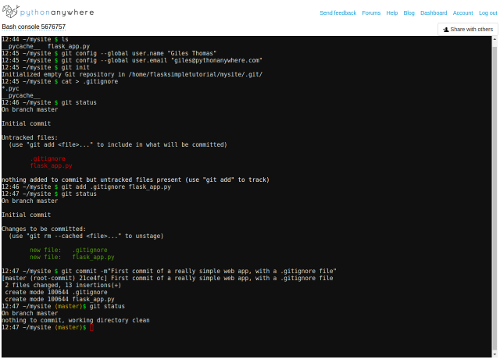
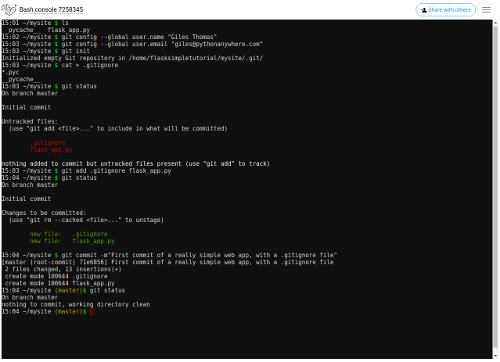
Updated first flask tutorial to use new interface

Changed region(s): [[0.0, 0.0, 1.0, 1.0]]

diff --git a/tutorial-1.md b/tutorial-1.md
@@ -16,13 +16,23 @@ We assume that you've got a little bit of basic Python and HTML knowledge -- for
 
 Firstly, [create a PythonAnywhere account](https://www.pythonanywhere.com/pricing/) if you haven't already.  A free "Beginner" account is enough for this tutorial.
 
-Once you've signed up, you'll be taken to the "Consoles" tab:
+Once you've signed up, you'll be taken to the dashboard, with a tour window.  It's worth going through
+the tour so that you can learn how the site works -- it'll only take a minute or so.
 
 <img width="500" src="/static/images/flask-tutorial-signed-in.png">
 
-You can dismiss the green welcome section at the top (use the "X" in its top right) -- everything there is accessible later from the "Help" link if you want to see it.  I do recommend you check your email and confirm your email address, though -- otherwise if you forget your password later, you won't be able to reset it.
+At the end of the tour you'll be presented with some options to "learn more".  You can just iht "End tour" here,
+because this tutorial will tell you all you need to know.
 
-Now, click on the "Web" tab, and you'll be taken to a page where you can create a website:
+<img width="500" src="/static/images/flask-tutorial-tour-learn-more.png">
+
+Now you're presented with the PythonAnywhere dashboard.  I recommend you check your email and confirm your email address --
+otherwise if you forget your password later, you won't be able to reset it.
+
+<img width="500" src="/static/images/flask-tutorial-initial-dashboard.png">
+
+
+Now, click on the "Web" link near the top right, and you'll be taken to a page where you can create a website:
 
 <img width="500" src="/static/images/flask-tutorial-web-tab-empty.png">
 
@@ -211,7 +221,7 @@ So let's add some code to handle the "/wibble" version.  Just put this at the bo
 
 Click the "Save" button again, then the reload button, and check out your site on the tab you kept open earlier.  Now, both `http://`*yourusername*`.pythonanywhere.com/` and `http://`*yourusername*`.pythonanywhere.com/wibble` will work, and will return different text.
 
-So that was our first change, but it was pretty pointless.  Let's use git to undo it.  Click on the PythonAnywhere logo at the top right of the editor page, and you'll be taken to the main PythonAnywhere "Consoles" list.  You'll see that under "Your consoles" there's a thing called something like "Bash console 5676757".
+So that was our first change, but it was pretty pointless.  Let's use git to undo it.  Click on the PythonAnywhere logo at the top left of the editor page, and you'll be taken to the main PythonAnywhere dashboard.  You'll see that under "Recent Consoles" there's a thing called something like "Bash console 5676757".
 
 <img width="500" src="/static/images/flask-tutorial-consoles-list.png">
 
@@ -240,7 +250,7 @@ Run `git status` again, and you'll see that it no longer sees that file as chang
     On branch master
     nothing to commit, working directory clean
 
-Let's confirm that our change really was un-done.  Click the PythonAnywhere logo again, then click on the "Files" tab next to the "Consoles" one.  That will take you to a directory listing for your home directory.  From there, click on the directory containing the code for your website (`mysite` if you stuck with the default) and you'll get a directory listing for that, which should contain the `flask_app.py` file.  Click on that, and you'll be taken to the editor again, and you'll see that the pointless change has been backed out for us.
+Let's confirm that our change really was un-done.  Click the PythonAnywhere logo again, then click on the `flask_app.py` file in the "Recent Files" list next to the "Recent Consoles" one.  You'll be taken to the editor again, and you'll see that the pointless change has been backed out for us.
 
 Hopefully that was at least instructive in showing how you can easily back out changes if you make a mess of your program while developing :-)
 
@@ -252,7 +262,7 @@ A web app in Flask, like most frameworks, consists of two kinds of file: source 
 
 Our website is just going to be a bunch of comments, one after another, with a text box at the bottom so that people can add new ones.  So we'll start off by writing a template that displays some dummy data, and a view in the Python code that renders (that is, displays) the template.
 
-The template first.  Click on the back button to get to your web app's source code directory listing page.  Templates, by convention, go in a subdirectory of your source code directory, inventively called `templates`.  So we can create that by typing "templates" into the "Enter new directory name" input near the top of the page, then clicking the "New directory" button next to it.  That will take us to the directory listing for the new directory, which of course is empty.  We'll create our template file in there; type "main_page.html" into the "Enter new file name" input, and click the "New file" button next to it.  This will take you to the editor, which will be empty.
+The template first.  Click on `mysite` in the breadcrumb trail (remember, that's the stuff separated by slashes at the top of the editor page), to get to your web app's source code directory listing page.  Templates, by convention, go in a subdirectory of your source code directory, inventively called `templates`.  So we can create that by typing "templates" into the "Enter new directory name" input near the top of the page, then clicking the "New directory" button next to it.  That will take us to the directory listing for the new directory, which of course is empty.  We'll create our template file in there; type "main_page.html" into the "Enter new file name" input, and click the "New file" button next to it.  This will take you to the editor, which will be empty.
 
 Type the following HTML into the editor:
 
@@ -286,7 +296,7 @@ Type the following HTML into the editor:
         </body>
     </html>
 
-Save it, and go back to the source code directory (you can use the breadcrumbs at the top of the page -- remember, they're the things separated by "/"s) and edit your source code file.  We need to change it so that it renders that template.  To do that, replace the existing view, which looks like this:
+Save it, and go back to the source code directory `mysite` using the breadcrumbs, and edit your source code file `flask_app.py`.  We need to change it so that it renders that template.  To do that, replace the existing view, which looks like this:
 
     @app.route('/')
     def hello_world():
@@ -316,7 +326,7 @@ Now, save the file, reload the website, and refresh it in your other tab.  It'll
 
 That's pretty ugly, but it has our stuff from the template -- it all worked :-)
 
-Let's take another checkpoint using git.  This time, to save us from having to click around all the time, we'll open up our bash console in a new browser tab.  Go back to your source code editor tab, right-click the PythonAnywhere logo, and select the option to open the link in a new tab.  In the new tab, click on the "Bash console" link under "Your consoles".  You should now have three tabs open -- the one where you're editing your source code, the one with the bash console, and the one viewing your site.
+Let's take another checkpoint using git.  This time, to save us from having to click around all the time, we'll open up our bash console in a new browser tab.  Go back to your source code editor tab, right-click the PythonAnywhere logo, and select the option to open the link in a new tab.  In the new tab, click on the "Bash console XXXX" link (where XXXX is some number) under "Recent consoles".  You should now have three tabs open -- the one where you're editing your source code, the one with the bash console, and the one viewing your site.
 
 In the bash console, type `git status`.  It will say something like this:
 
@@ -717,7 +727,7 @@ Once again, run `git status` to confirm that everything's now properly synchroni
 
 So, we have a page where random people on the Internet can add comments.  We all know what the Internet is like, and this is going to fill up with ads for fake Rolexes and dodgy pharmaceuticals pretty rapidly if we leave it open to the world.  So let's add some password protection.  PythonAnywhere provides this for us.
 
-To activate it, go to any of your tabs, right-click the PythonAnywhere to open the consoles page in a new browser tab, then click on the "Web" tab.  Make sure your website is selected on the left-hand side, then scroll to the bottom of the page.  Just above the big red "delete" button there's a section titled "Password protection".  Enter a username and a password here, and switch the toggle above those fields to "Enabled".  Scroll up to the top of the page again, and click the big green "Reload" button.
+To activate it, go to any of your tabs, right-click the PythonAnywhere to open the consoles page in a new browser tab, then click on the "Web" link near the top right.  Make sure your website is selected on the left-hand side, then scroll to the bottom of the page.  Just above the big red "delete" button there's a section titled "Password protection".  Enter a username and a password here, and switch the toggle above those fields to "Enabled".  Scroll up to the top of the page again, and click the big green "Reload" button.
 
 Now head over to the tab where you're viewing your website, and refresh the page.  This time you should be prompted for a password.  You only need to enter it this one time for this browser session, so it won't get in our way later on -- but it will keep the spammers at bay...  Once this is all done, you can close the browser tab where you set the password.
 
@@ -738,11 +748,11 @@ SQLite is pretty slow on PythonAnywhere, and doesn't scale well for larger sites
 
 One convenient thing about modern database programming, however, is that to a certain degree you don't need to worry about which database you're actually using.  There are database interface libraries called Object-Relational Mappers (ORMs), which make it possible (most of the time) to use the same code regardless of the underlying database.  We're going to use one called SQLAlchemy, which works well with Flask.
 
-Right, enough background.  Let's create a MySQL database!  In your tab where you're editing the Python source code, right-click on the PythonAnywhere logo and open the page in a new tab.  On the "Consoles" page that appears, click on the "Databases" tab to the far right.  You'll wind up here:
+Right, enough background.  Let's create a MySQL database!  In your tab where you're editing the Python source code, right-click on the PythonAnywhere logo and open the page in a new tab.  On the dashboard page that appears, click on the "Databases" link near the top right.  You'll wind up here:
 
 <img width="500" src="/static/images/flask-tutorial-databases-tab-empty.png">
 
-The first thing you need to do to set up a MySQL database is specify the password you want to use when accessing it.  Enter a new password here; make it something different to the one you use to log in to PythonAnywhere, because this database password will have to exist in your Python code (so that it can connect to your server), so it's more secure to use a different one.  Make a note of the password you've chosen, and once you've entered it twice in the appropriate fields, click the "Initialize MySQL" button.  Wait for a few moments for your database to be set up, and you'll come back to the "Databases" tab, but now some extra options will have appeared:
+The first thing you need to do to set up a MySQL database is specify the password you want to use when accessing it.  Enter a new password here; make it something different to the one you use to log in to PythonAnywhere, because this database password will have to exist in your Python code (so that it can connect to your server), so it's more secure to use a different one.  Make a note of the password you've chosen, and once you've entered it twice in the appropriate fields, click the "Initialize MySQL" button.  Wait for a few moments for your database to be set up, and you'll come back to the "Databases" page, but now some extra options will have appeared:
 
 <img width="500" src="/static/images/flask-tutorial-databases-tab-after-set-password.png">
 
@@ -804,7 +814,7 @@ Next, we need to add a *model*.  A model is a Python class that specifies the st
         id = db.Column(db.Integer, primary_key=True)
         content = db.Column(db.String(4096))
 
-An SQL database can seen as something similar to a spreadsheet; you have a number of *tables*, just like a spreadsheet has a number of sheets inside it.  Each table can be thought of as a place to store a specific kind of thing; on the Python side, each one would be represented by a separate class.  We have only one kind of thing to store, so we are going to have just one table, called "comments".  Each table is formed of rows and columns.  Each row corresponds to an entry in the database -- in our simple example, each comment would be a row.  On the Python side, this basically means one row per object stored.  The columns are the attributes of the class, and are pretty much fixed; for our database, we're specifying two columns: an integer `id`, which we'll keep for housekeeping purposes later on, and a string `content`, which holds, of course, the contents of the comment.  If we wanted to add more stuff to comments in the future -- say, the author's name -- we'd need to add extra columns for those things.  (Changing the MySQL database structure to add more columns can be tricky; the process is called *migrating* the database.
+An SQL database can seen as something similar to a spreadsheet; you have a number of *tables*, just like a spreadsheet has a number of sheets inside it.  Each table can be thought of as a place to store a specific kind of thing; on the Python side, each one would be represented by a separate class.  We have only one kind of thing to store, so we are going to have just one table, called "comments".  Each table is formed of rows and columns.  Each row corresponds to an entry in the database -- in our simple example, each comment would be a row.  On the Python side, this basically means one row per object stored.  The columns are the attributes of the class, and are pretty much fixed; for our database, we're specifying two columns: an integer `id`, which we'll use for housekeeping purposes later on, and a string `content`, which holds, of course, the contents of the comment.  If we wanted to add more stuff to comments in the future -- say, the author's name -- we'd need to add extra columns for those things.  (Changing the MySQL database structure to add more columns can be tricky; the process is called *migrating* the database.
 [The second part of our tutorial](https://blog.pythonanywhere.com/158/) covers that.)
 
 Now that we've defined our model, we need to get SQLAlchemy to create the database tables.  This is a one-off operation -- once we've created the database's structure, it's done.  Save your Python file, then head over to the bash console we've been using so far for git stuff, and run `ipython3.6` to start a Python interpreter.
@@ -819,7 +829,7 @@ Now, we want to create the tables.  This is really easy:
 
 <img width="500" src="/static/images/flask-tutorial-sqlalchemy-create-all.png">
 
-Once you've done that, the table has been created in the database.  Let's confirm that.  Go to the tab you kept open that's showing the "Databases" PythonAnywhere tab, and click on your database name (*yourusername*`$comments`).  This will start a new console, running the MySQL command line.  Once it has loaded (it will show a `mysql>` prompt), run the command:
+Once you've done that, the table has been created in the database.  Let's confirm that.  Go to the tab you kept open that's showing the "Databases" PythonAnywhere page, and click on your database name (*yourusername*`$comments`).  This will start a new console, running the MySQL command line.  Once it has loaded (it will show a `mysql>` prompt), run the command:
 
     show tables;
 
